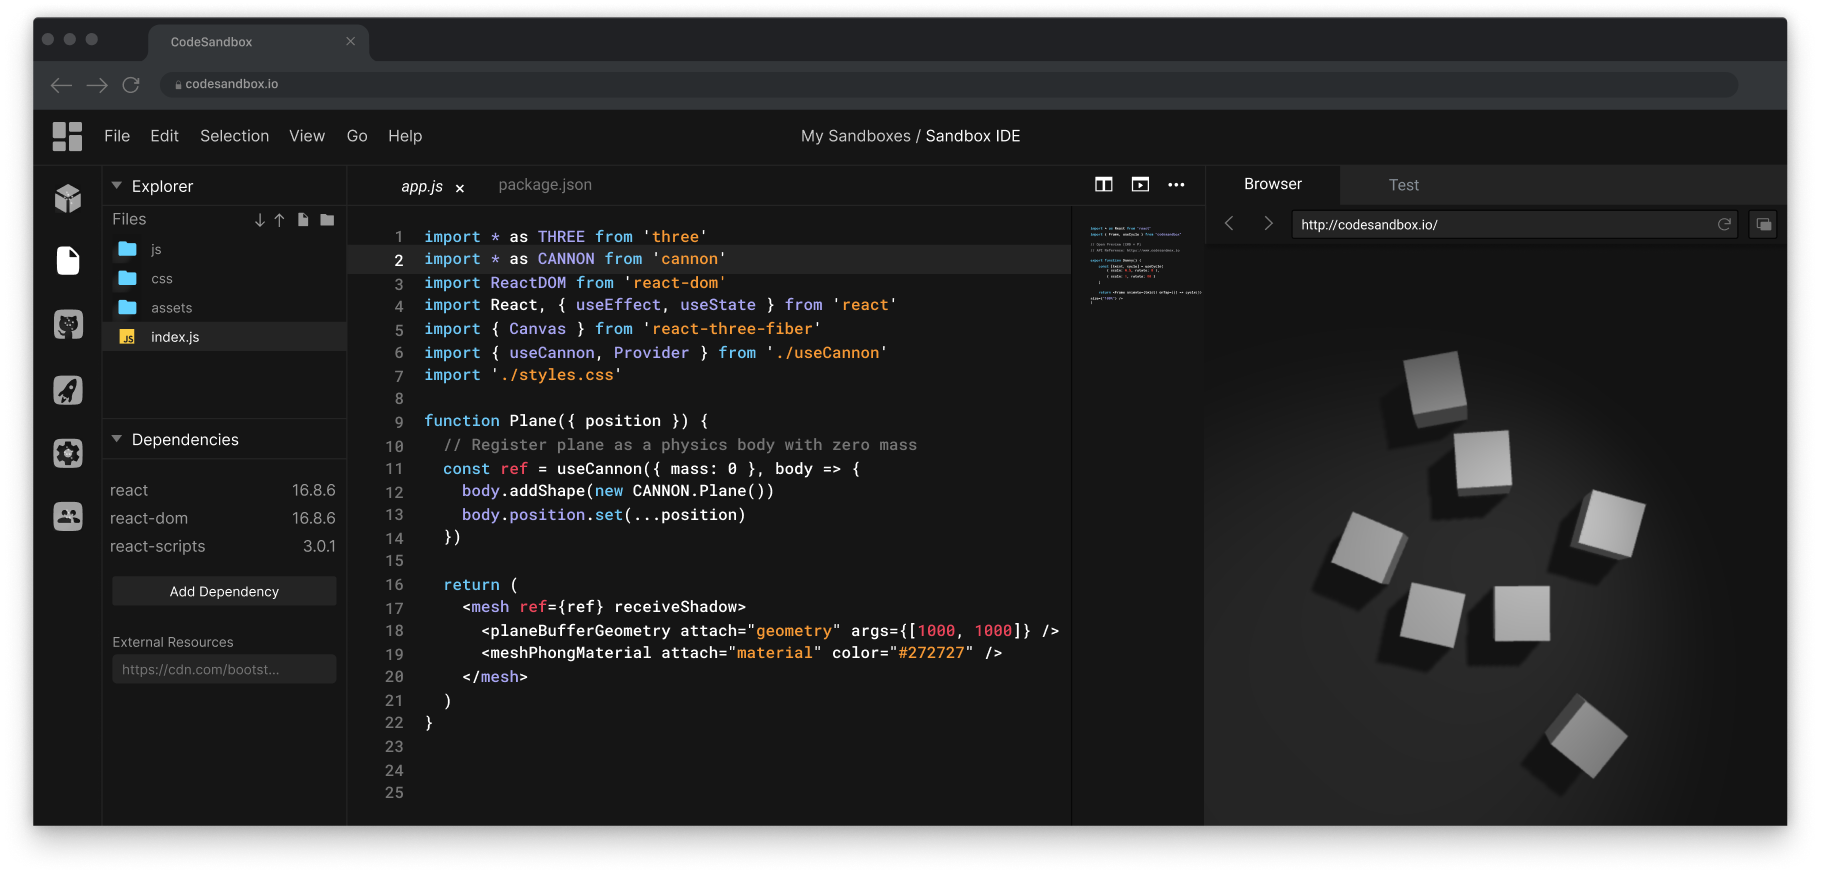
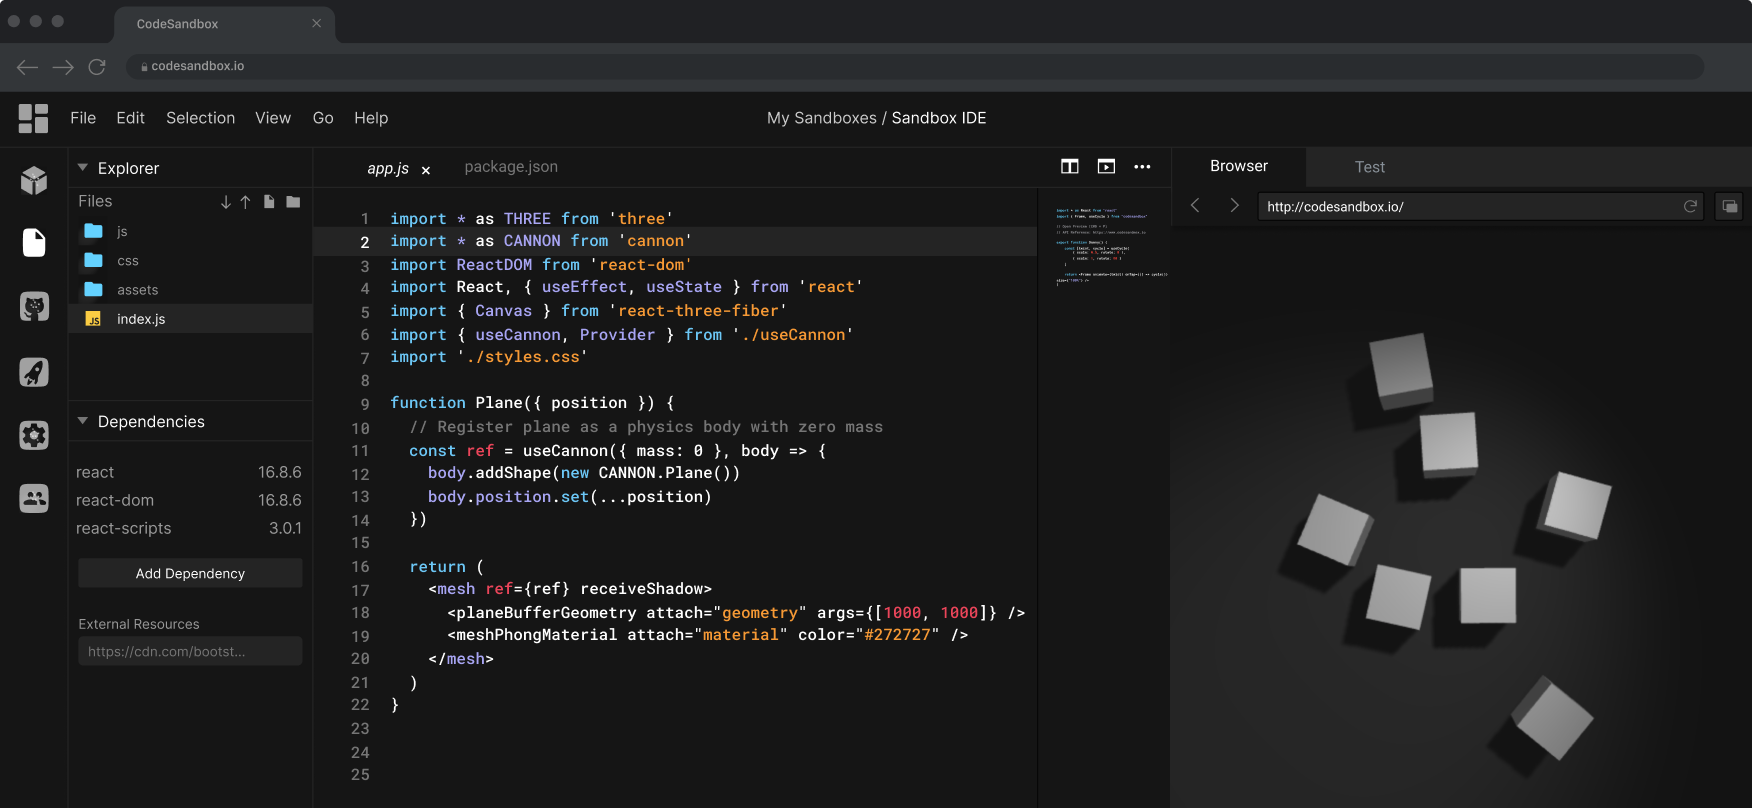
Live

diff --git a/packages/homepage/src/screens/home/hero/index.js b/packages/homepage/src/screens/home/hero/index.js
@@ -1,61 +1,141 @@
-import React from 'react';
+import React, { useState, useEffect, useRef } from 'react';
 import { motion } from 'framer-motion';
+import { Socket } from 'phoenix';
+
 import Button from '../../../components/Button';
 import { H2, P } from '../../../components/Typography';
-import { HeroWrapper, SignUp, Border } from './elements';
+import { HeroWrapper, SignUp, Border, StyledEditorLink } from './elements';
 
 import hero from '../../../assets/images/hero-ide-home.png';
 
 import BoxAnimation from './BoxAnimation';
 
-export default () => (
-  <HeroWrapper>
-    <BoxAnimation />
+export default () => {
+  const [boxes, setBoxes] = useState([]);
+  const [sandboxesCreatedCount, setSandboxesCreatedCount] = useState(0);
+  const [showPlane, setShowPlane] = useState(true);
 
-    <motion.div
-      initial={{ opacity: 0, y: 140 }}
-      animate={{ opacity: 1, y: 0 }}
-      transition={{ duration: 1, ease: 'easeOut' }}
-      style={{
-        zIndex: 20,
-        position: 'absolute',
-        top: 150,
-        left: 0,
-        right: 0,
-        textAlign: 'center',
-      }}
-    >
-      <H2 as="h1">Web Development Made Faster</H2>
-      <P
-        small
-        css={`
-          margin-bottom: 2rem;
-        `}
+  const createBox = React.useCallback(() => {
+    setBoxes(b => {
+      if (b.length > 10) {
+        setShowPlane(false);
+        setTimeout(() => {
+          setShowPlane(true);
+
+          setBoxes(bb => {
+            const newBoxes = [...bb];
+            newBoxes.length = 1;
+            return newBoxes;
+          });
+        }, 1000);
+      }
+      const newBoxes = [
+        {
+          key: Math.floor(Math.random() * 10000) + '',
+          position: [-5 + Math.random() * 10, -2.5 + Math.random() * 5, 15],
+        },
+        ...b,
+      ];
+
+      return newBoxes;
+    });
+  }, [setBoxes]);
+
+  const socketRef = useRef(new Socket('/anon-socket'));
+
+  useEffect(() => {
+    const socket = socketRef.current;
+    socket.connect();
+
+    const channel = socket.channel('sandbox-created', {});
+    channel.join();
+    channel.on('new-sandbox', () => {
+      createBox();
+      setSandboxesCreatedCount(i => i + 1);
+    });
+
+    return () => {
+      socket.disconnect();
+    };
+  }, [createBox, socketRef]);
+
+  return (
+    <HeroWrapper>
+      <BoxAnimation boxes={boxes} showPlane={showPlane} />
+
+      <motion.div
+        initial={{ opacity: 0, y: 140 }}
+        animate={{ opacity: 1, y: 0 }}
+        transition={{ duration: 1, ease: 'easeOut' }}
+        style={{
+          zIndex: 20,
+          position: 'absolute',
+          top: '15%',
+          left: 0,
+          right: 0,
+          textAlign: 'center',
+        }}
       >
-        An instant IDE and prototyping tool for rapid web development.
-      </P>
-      <Button
-        style={{ padding: '.75rem 2rem', marginBottom: '.5rem' }}
-        href="/s"
+        <H2 as="h1">Web Development Made Faster</H2>
+        <P
+          small
+          css={`
+            margin-bottom: 2rem;
+          `}
+        >
+          An instant IDE and prototyping tool for rapid web development.
+        </P>
+        <Button
+          style={{ padding: '.75rem 2rem', marginBottom: '.5rem' }}
+          href="/s"
+        >
+          Create a Sandbox, it’s free
+        </Button>
+        <SignUp>No signup required</SignUp>
+      </motion.div>
+
+      <div
+        style={{
+          position: 'absolute',
+          bottom: '-30%',
+          left: 0,
+          right: 0,
+          display: 'flex',
+          flexDirection: 'column',
+          justifyContent: 'center',
+          alignItems: 'center',
+        }}
       >
-        Create a Sandbox, it’s free
-      </Button>
-      <SignUp>No signup required</SignUp>
-    </motion.div>
+        <div
+          style={{ fontSize: '1.25rem', color: '#ccc', marginBottom: '1rem' }}
+        >
+          {sandboxesCreatedCount}{' '}
+          {sandboxesCreatedCount === 1 ? 'sandbox' : 'sandboxes'} created since
+          you opened this page
+        </div>
 
-    <div
-      style={{
-        position: 'absolute',
-        top: 700,
-        left: 0,
-        right: 0,
-        display: 'flex',
-        justifyContent: 'center',
-      }}
-    >
-      <img src={hero} style={{ maxWidth: 1200 }} />
-    </div>
+        <div style={{ position: 'relative' }}>
+          <StyledEditorLink
+            href="/s/m7q0r29nn9"
+            target="_blank"
+            rel="noreferrer noopener"
+          >
+            Open Project in CodeSandbox
+          </StyledEditorLink>
+          <img
+            alt="editor with project open"
+            src={hero}
+            style={{
+              maxWidth: 1200,
+              overflow: 'hidden',
+              borderRadius: 4,
+              boxShadow: '0 10px 10px rgba(0, 0, 0, 0.5)',
+            }}
+          />
+        </div>
+      </div>
 
-    <Border />
-  </HeroWrapper>
-);
+      <Border />
+    </HeroWrapper>
+  );
+};

diff --git a/packages/homepage/src/screens/home/hero/BoxAnimation/index.js b/packages/homepage/src/screens/home/hero/BoxAnimation/index.js
@@ -43,8 +43,10 @@ function Box({ position }) {
 
   const fn = React.useCallback(
     body => {
-      body.addShape(new CANNON.Box(new CANNON.Vec3(0.5, 0.5, 0.5)));
+      body.addShape(new CANNON.Box(new CANNON.Vec3(1, 1, 1)));
       body.position.set(...position);
+
+      body.sleep();
 
       bodyRef.current = body;
     },
@@ -52,7 +54,7 @@ function Box({ position }) {
   );
 
   // Register box as a physics body with mass
-  const ref = useCannon({ mass: 1000 }, fn, []);
+  const ref = useCannon({ mass: 100 }, fn, []);
 
   useEffect(() => {
     if (dragging) {
@@ -76,6 +78,7 @@ function Box({ position }) {
       } else {
         setDragging(false);
       }
+
       bodyRef.current.velocity.x = vx * 5;
       bodyRef.current.velocity.y = -vy * 5;
     },
@@ -84,46 +87,13 @@ function Box({ position }) {
 
   return (
     <mesh {...bindDrag()} ref={ref} castShadow receiveShadow>
-      <boxGeometry attach="geometry" args={[1, 1, 1]} />
+      <boxGeometry attach="geometry" args={[2, 2, 2]} />
       <meshStandardMaterial attach="material" />
     </mesh>
   );
 }
 
-export default function App() {
-  const [boxes, setBoxes] = useState([]);
-
-  useEffect(() => {
-    let timeout = null;
-    const createBox = () => {
-      setBoxes(b => {
-        const newBoxes = [
-          ...b,
-          {
-            key: Math.floor(Math.random() * 1000) + '',
-            position: [-5 + Math.random() * 10, -2.5 + Math.random() * 5, 15],
-          },
-        ];
-
-        if (newBoxes.length > 20) {
-          newBoxes.length = 20;
-        }
-
-        return newBoxes;
-      });
-
-      timeout = setTimeout(createBox, 2500);
-    };
-
-    createBox();
-
-    return () => {
-      if (timeout) {
-        clearTimeout(timeout);
-      }
-    };
-  }, [setBoxes]);
-
+export default function App({ boxes, showPlane }) {
   return (
     <div
       style={{
@@ -152,7 +122,7 @@ export default function App() {
         />
 
         <Provider>
-          <Plane position={[0, 0, 0]} />
+          {showPlane && <Plane position={[0, 0, 0]} />}
 
           {boxes.map(pos => (
             <Box key={pos.key} position={pos.position} />

diff --git a/packages/homepage/src/screens/home/hero/elements.js b/packages/homepage/src/screens/home/hero/elements.js
@@ -47,7 +47,7 @@ export const HeroWrapper = styled.section`
   overflow: hidden;
   padding: 0 2rem;
 
-  height: 1200px;
+  height: calc(100vh - 48px);
 
   perspective: 1000;
 `;
@@ -102,4 +102,29 @@ export const Border = styled.div`
   left: 0;
   width: 100%;
   height: 1px;
+`;
+
+export const StyledEditorLink = styled.a`
+  transition: 0.3s ease opacity;
+  position: absolute;
+  display: flex;
+  justify-content: center;
+  padding-top: 150px;
+  top: 0;
+  bottom: 0;
+  left: 0;
+  right: 0;
+  transition: 0.3 ease all;
+  border-radius: 4px;
+  font-size: 1.25rem;
+  text-decoration: none;
+
+  color: white;
+  font-weight: 400;
+  background-color: rgba(0, 0, 0, 0.5);
+  opacity: 0;
+
+  &:hover {
+    opacity: 1;
+  }
 `;

diff --git a/packages/homepage/src/screens/home/hero/BoxAnimation/useCannon.js b/packages/homepage/src/screens/home/hero/BoxAnimation/useCannon.js
@@ -9,8 +9,8 @@ export function Provider({ children }) {
   const [world] = useState(() => new CANNON.World());
   useEffect(() => {
     world.broadphase = new CANNON.NaiveBroadphase();
-    world.solver.iterations = 10;
-    world.gravity.set(0, 0, -15);
+    world.solver.iterations = 2;
+    world.gravity.set(0, 0, -10);
   }, [world]);
 
   // Run world stepper every frame
@@ -22,7 +22,7 @@ export function Provider({ children }) {
 }
 
 // Custom hook to maintain a world physics body
-export function useCannon({ ...props }, fn, deps = []) {
+export function useCannon({ ...props }, fn) {
   const ref = useRef();
   // Get cannon world object
   const world = useContext(context);
